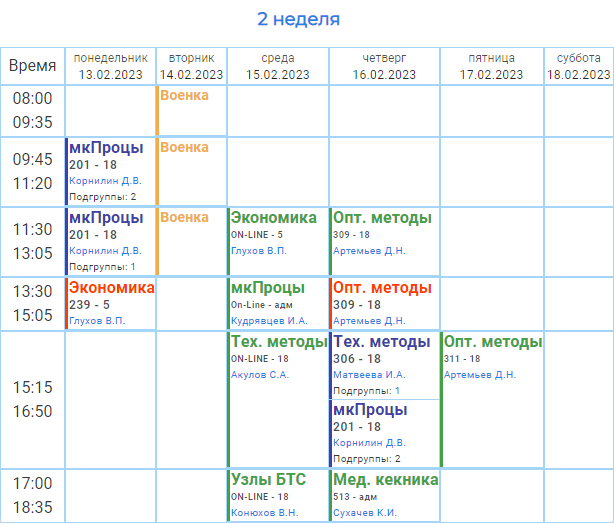
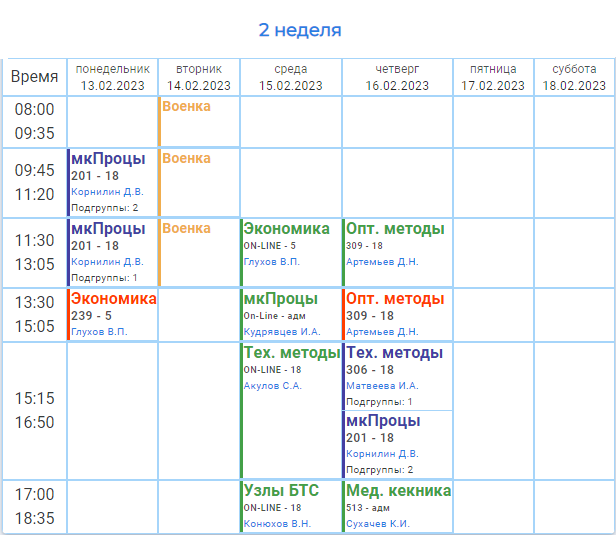
<inrit>

Changed region(s): [[0.0, 0.0306, 1.0, 1.0]]

diff --git a/index.html b/index.html
@@ -302,17 +302,17 @@ window.onload=initsnow
 
 <details class="details1"><summary>Расписания</summary>
 	<p id="rasp"  hidden></p>
-		<figure><img src="rasp6/2.png"><figcaption>2</figcaption></figure>
+		<figure><img src="rasp6/2.png?v=22"><figcaption>2</figcaption></figure>
 	
 	<details class="details2"><summary>Расписания на следующие недели</summary>	
-		<figure><img src="rasp6/3.png?v=10"><figcaption>3</figcaption></figure>
-		<figure><img src="rasp6/4.png"><figcaption>4</figcaption></figure>
-		<figure><img src="rasp6/5.png?v=10"><figcaption>5</figcaption></figure>
-		<figure><img src="rasp6/6.png"><figcaption>6</figcaption></figure>
-		<figure><img src="rasp6/7.png?v=10"><figcaption>7</figcaption></figure>	
-		<figure><img src="rasp6/8.png"><figcaption>8</figcaption></figure>
-		<figure><img src="rasp6/9.png?v=10"><figcaption>9</figcaption></figure>	
-		<figure><img src="rasp6/10.png"><figcaption>10</figcaption></figure>	
+		<figure><img src="rasp6/3.png?v=22"><figcaption>3</figcaption></figure>
+		<figure><img src="rasp6/4.png?v=22"><figcaption>4</figcaption></figure>
+		<figure><img src="rasp6/5.png?v=22"><figcaption>5</figcaption></figure>
+		<figure><img src="rasp6/6.png?v=22"><figcaption>6</figcaption></figure>
+		<figure><img src="rasp6/7.png?v=22"><figcaption>7</figcaption></figure>	
+		<figure><img src="rasp6/8.png?v=22"><figcaption>8</figcaption></figure>
+		<figure><img src="rasp6/9.png?v=22"><figcaption>9</figcaption></figure>	
+		<figure><img src="rasp6/10.png?v=22"><figcaption>10</figcaption></figure>	
 		<!-- <figure><img src="rasp6/11.png"><figcaption>11</figcaption></figure> -->
 		<!-- <figure><img src="rasp6/12.png"><figcaption>12</figcaption></figure>	 -->
 		<!-- <figure><img src="rasp6/13.png"><figcaption>13</figcaption></figure> -->

diff --git a/новый 2.cpp b/новый 2.cpp
@@ -1,0 +1,46 @@
+static unsigned int results[Num_of_Results];
+#define Num_of_Results_1 128
+static unsigned int results_1[Num_of_Results_1];
+// ?????? ??? ???????? ???????????
+void main(void)
+{
+WDTCTL = WDTPW+WDTHOLD; // ???? WATCHDOG
+ ADC12CTL0 = ADC12ON+REFON+REF2_5V+SHT0_6; 
+ ADC12CTL1 = ADC12ON+REFON+REF2_5V+SHT0_6; 
+ // ????????? ???, ????????? ???????? ??????????, ????????? ?????? ???
+ ADC12CTL1 = SHP; // ????? ?????
+ ADC12MCTL0 = INCH_10+SREF_1; // ????? ??????
+ ADC12MCTL1 = INCH_11+SREF_1;
+ ADC12IE = 0x01; // ?????????? ??????????
+// ???????? ??? ?????????? ?????????? ?????????
+ for (int i=0; i<0x3600; i++) { }
+ ADC12CTL0 |= ENC; // ???? ??????????????
+ _EINT(); // ?????????? ??????????
+ while(1)
+ {
+ ADC12CTL0 |= ADC12SC; // ???? ??????????????
+ _BIS_SR(LPM0_bits); // ??????? ? ????? LPM0
+_NOP(); // ??? ????? ????????
+ }
+ for (int i=0; i<0x3600; i++) { }
+ ADC12CTL1 |= ENC; // ???? ??????????????
+ _EINT();
+ while(1)
+ {
+ ADC12CTL1 |= ADC12SC; // ???? ??????????????
+ _BIS_SR(LPM0_bits); // ??????? ? ????? LPM0
+_NOP(); // ??? ????? ????????
+ }
+}
+#pragma vector=ADC_VECTOR
+__interrupt void ADC12_ISR ()
+{
+static unsigned int index = 0;
+static unsigned int index_1 = 0;
+if (ADC12IV = 6) then results[index] = ADC12MEM0; 
+ index = (index+1)%Num_of_Results;
+if (ADC12IV = 8) then results_1[index_1] = ADC12MEM1; 
+ index_1 = (index_1+1)%Num_of_Results_1;
+ // Increment results index, modulo
+ _BIC_SR_IRQ(LPM0_bits); // ??????? ? ???????? ?????
+}
